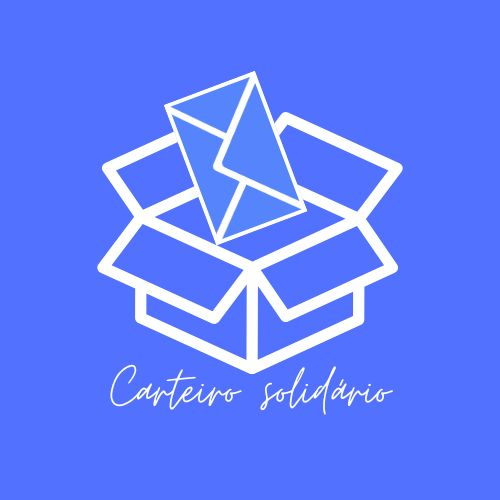
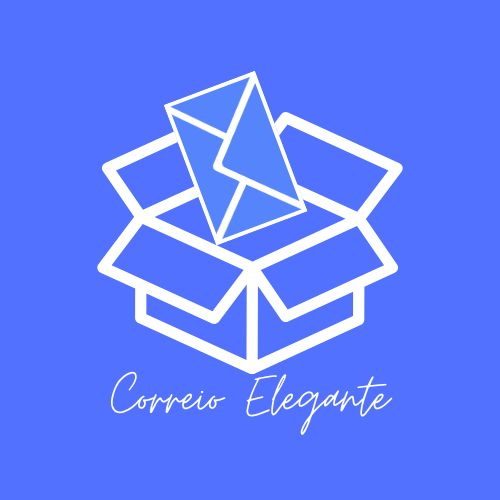
Mudando imagens

Changed region(s): [[0.21, 0.72, 0.81, 0.87]]

diff --git a/client/src/app/page.tsx b/client/src/app/page.tsx
@@ -8,17 +8,17 @@ import { Google,Facebook } from "@deemlol/next-icons";
 import ImageChecklist from "../assets/Checklist.png";
 import Carta from "../assets/carta.png";
 export const metadata: Metadata = {
-  title: "Correio Solidário",
+  title: "Correio Elegante",
   description: "Espalhe carinho, admiração e um pouco de mistério pelos corredores da escola.",
   openGraph: {
-    title: "Correio Solidário",
+    title: "Correio Elegante",
     description: "Espalhe carinho, admiração e um pouco de mistério pelos corredores da escola.",
     images: [
       {
         url: "https://correio-elegante-gastao.vercel.app/2.jpg",
         width: 800,
         height: 600,
-        alt: "Correio Solidário Hero Image",
+        alt: "Correio Elegante Hero Image",
       },
     ],
   },
@@ -31,7 +31,7 @@ export default function Home() {
           <div className="flex flex-col items-center sm:flex-row-reverse">
             <Image src={ImageHero} alt="Hero Image" className="h-full object-cover" />
             <div className="flex flex-col">
-              <h1 className={` ${moontime.className} text-7xl sm:text-8xl text-center `}>Correio Solidario</h1>
+              <h1 className={` ${moontime.className} text-7xl sm:text-8xl text-center `}>Correio Elegante</h1>
               <p className="text-xl text-center mt-4">
                 Espalhe carinho, admiração e um pouco de mistério pelos corredores da escola.
               </p>

diff --git a/client/src/components/navbar.tsx b/client/src/components/navbar.tsx
@@ -12,7 +12,7 @@ export default function Navbar() {
             <div className="container flex w-full justify-between items-center mx-auto px-4 py-2 text-white">
                 <div className='flex items-center'>
                     <Image src={ImageLogo} alt="Logo" className="h-10 w-12 mr-2 inline-block" />
-                    <a href="/" className={`${moontime.className} text-4xl`}>Correio Solidario</a>
+                    <a href="/" className={`${moontime.className} text-4xl`}>Correio Elegante</a>
                 </div>
                 <ul className='hidden sm:flex items-center space-x-4 text-lg'>
                     <li>

diff --git a/client/src/components/footer.tsx b/client/src/components/footer.tsx
@@ -10,7 +10,7 @@ export default function Footer() {
                 <div className="flex flex-col items-center">
                     <Link className="flex items-center" href={"/"}>
                         <Image src={ImageLogo} alt="Logo" className="h-10 w-12 mr-2 inline-block" />
-                        <a href="/" className={`${moontime.className} text-4xl`}>Correio Solidario</a>
+                        <a href="/" className={`${moontime.className} text-4xl`}>Correio Elegante</a>
                     </Link>
                 </div>
                 <div className="flex flex-col items-center mt-4">
